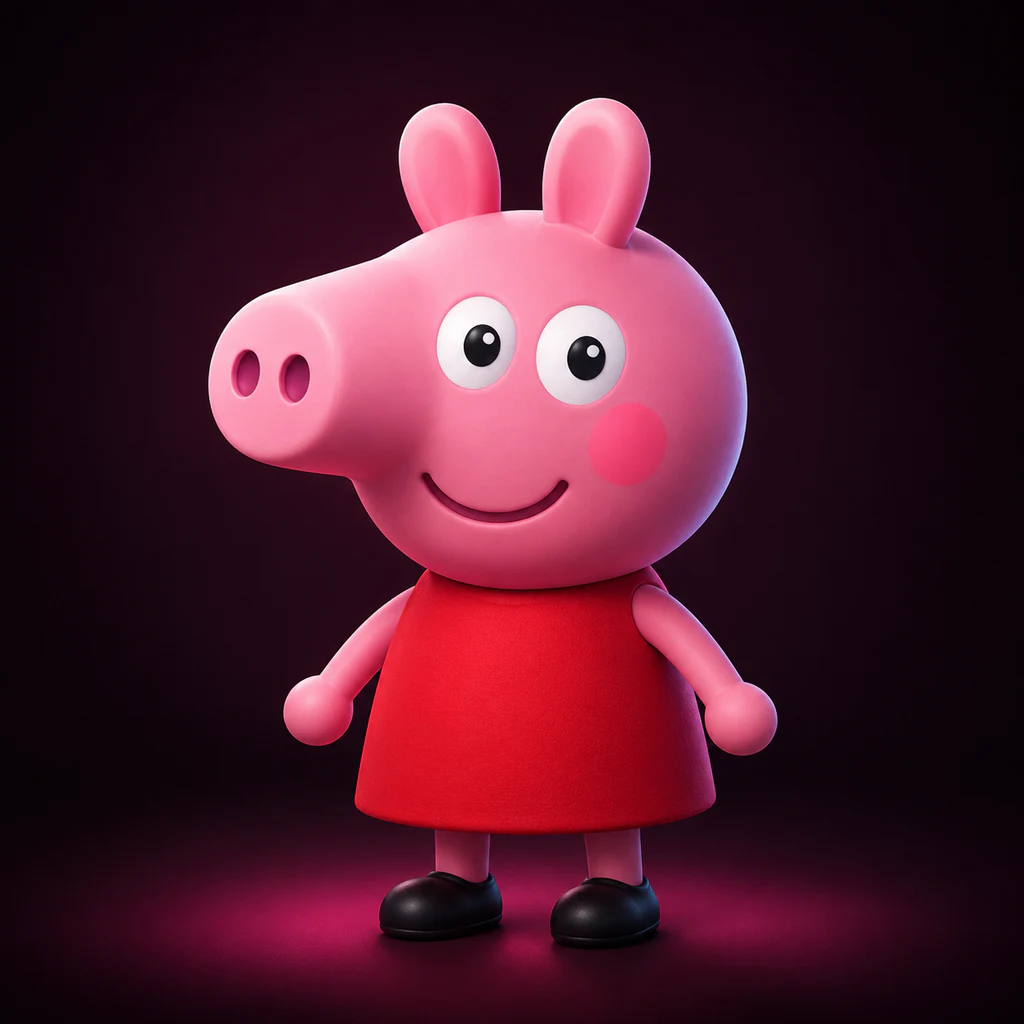
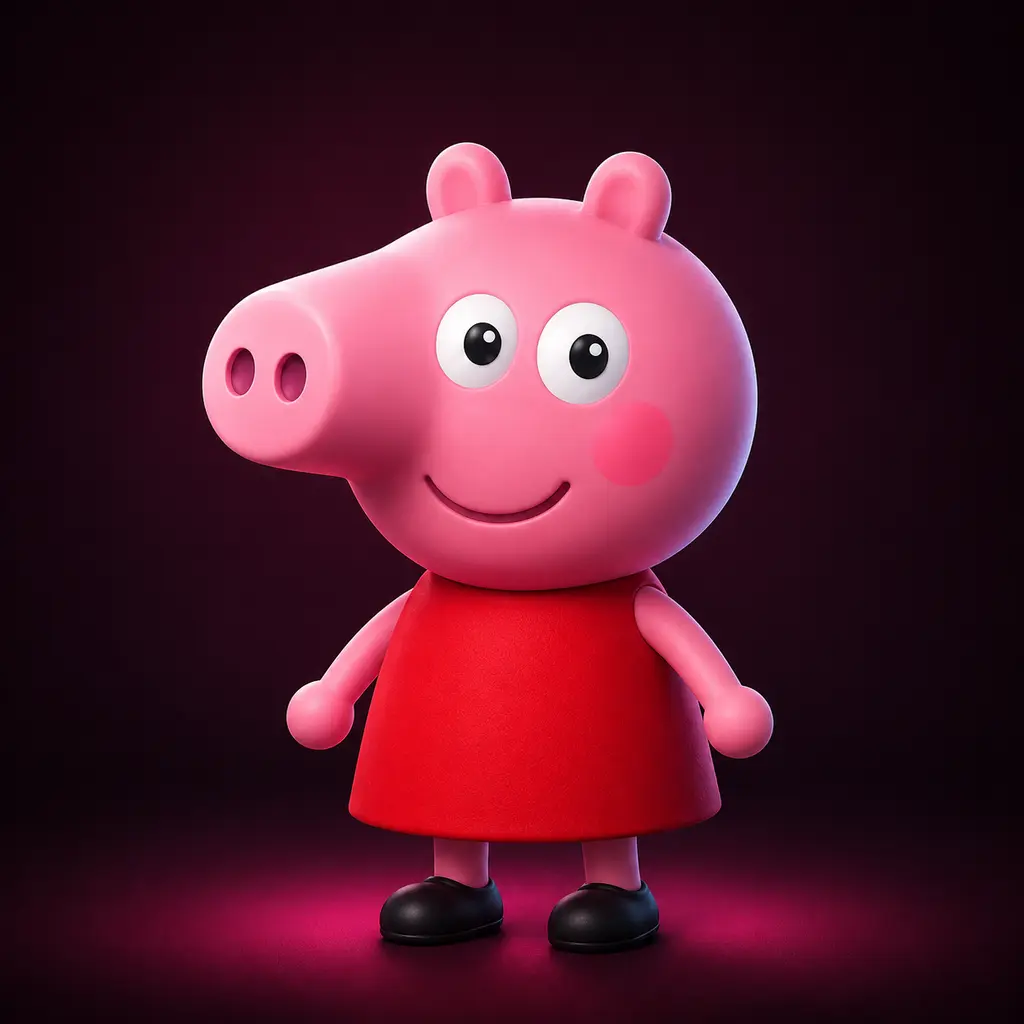
Finish full roster Loadout portraits

diff --git a/index.html b/index.html
@@ -14,7 +14,7 @@
 <!-- Which build is actually loaded. Stamped by build.js from a hash of the
      source, and shown in the pause panel, so "did my update land?" is a
      question anyone can answer on their phone in two taps. -->
-<meta name="build" content="8416cf1">
+<meta name="build" content="17227e4">
 <meta name="description" content="Bomber Fan — a 3D local-multiplayer bomber game. One human, three bots, six themed maps. Works offline.">
 <!-- Added to a phone's home screen it launches full-screen, with no browser
      chrome eating the landscape height the arena needs. -->
@@ -2034,7 +2034,7 @@
   }
 
   /* BOMBER FAN CHARACTER SELECT V6 */
-  /* One large live model, one compact sixteen-fighter roster, no prize ladder. */
+  /* One large live model, one compact twenty-fighter roster, no prize ladder. */
   #select {
     --fighter: #ff5148;
     padding: clamp(10px, 1.6vh, 18px) clamp(16px, 3vw, 44px) clamp(10px, 1.4vh, 16px) !important;
@@ -2187,8 +2187,8 @@
     width: 100%;
     max-width: none;
     background-color: #000;
-    background-image: url('assets/bombog.jpg');
-    background-size: contain;
+    background-image: url('assets/bombog-portrait.webp');
+    background-size: cover;
     background-position: center;
   }
   #spreview .preview-fallback[data-fighter="hulk"],
@@ -2204,7 +2204,12 @@
   #spreview .preview-fallback[data-fighter="joker"],
   #spreview .preview-fallback[data-fighter="blondie"],
   #spreview .preview-fallback[data-fighter="dino"],
-  #spreview .preview-fallback[data-fighter="wario"] {
+  #spreview .preview-fallback[data-fighter="wario"],
+  #spreview .preview-fallback[data-fighter="deadpool"],
+  #spreview .preview-fallback[data-fighter="buzz"],
+  #spreview .preview-fallback[data-fighter="minion"],
+  #spreview .preview-fallback[data-fighter="sonic"],
+  #spreview .preview-fallback[data-fighter="tanooki-bowser"] {
     width: 100%;
     max-width: none;
     background-size: cover;
@@ -2224,6 +2229,11 @@
   #spreview .preview-fallback[data-fighter="blondie"] { background-image: url('assets/blondie-portrait.webp'); }
   #spreview .preview-fallback[data-fighter="dino"] { background-image: url('assets/dino-portrait.webp'); }
   #spreview .preview-fallback[data-fighter="wario"] { background-image: url('assets/wario-portrait.svg'); }
+  #spreview .preview-fallback[data-fighter="deadpool"] { background-image: url('assets/deadpool-portrait.webp'); }
+  #spreview .preview-fallback[data-fighter="buzz"] { background-image: url('assets/buzz-portrait.webp'); }
+  #spreview .preview-fallback[data-fighter="minion"] { background-image: url('assets/minion-portrait.webp'); }
+  #spreview .preview-fallback[data-fighter="sonic"] { background-image: url('assets/sonic-portrait.webp'); }
+  #spreview .preview-fallback[data-fighter="tanooki-bowser"] { background-image: url('assets/tanooki-bowser-portrait.webp'); }
   @supports (width: 1cqh) {
     #spreview .preview-fallback {
       width: min(92cqw, 75cqh);
@@ -2368,11 +2378,17 @@
   #select .charpick[data-class="4"] .charface,
   #select .charpick[data-class="6"] .charface,
   #select .charpick[data-class="7"] .charface,
+  #select .charpick[data-class="8"] .charface,
   #select .charpick[data-class="9"] .charface,
   #select .charpick[data-class="10"] .charface,
   #select .charpick[data-class="11"] .charface,
+  #select .charpick[data-class="12"] .charface,
   #select .charpick[data-class="13"] .charface,
-  #select .charpick[data-class="14"] .charface {
+  #select .charpick[data-class="14"] .charface,
+  #select .charpick[data-class="16"] .charface,
+  #select .charpick[data-class="17"] .charface,
+  #select .charpick[data-class="18"] .charface,
+  #select .charpick[data-class="19"] .charface {
     background-size: cover;
     background-position: center;
   }
@@ -2384,12 +2400,18 @@
   #select .charpick[data-class="5"] .charface { background-image: url('assets/hulk-portrait.svg'); }
   #select .charpick[data-class="6"] .charface { background-image: url('assets/devil-portrait.webp'); }
   #select .charpick[data-class="7"] .charface { background-image: url('assets/maw-portrait.webp'); }
+  #select .charpick[data-class="8"] .charface { background-image: url('assets/bombog-portrait.webp'); }
   #select .charpick[data-class="9"] .charface { background-image: url('assets/plague-portrait.webp'); }
   #select .charpick[data-class="10"] .charface { background-image: url('assets/phantom-portrait.webp'); }
   #select .charpick[data-class="11"] .charface { background-image: url('assets/joker-portrait.svg'); }
+  #select .charpick[data-class="12"] .charface { background-image: url('assets/deadpool-portrait.webp'); }
   #select .charpick[data-class="13"] .charface { background-image: url('assets/blondie-portrait.webp'); }
   #select .charpick[data-class="14"] .charface { background-image: url('assets/dino-portrait.webp'); }
   #select .charpick[data-class="15"] .charface { background-image: url('assets/wario-portrait.svg'); background-size: cover; background-position: center; }
+  #select .charpick[data-class="16"] .charface { background-image: url('assets/buzz-portrait.webp'); }
+  #select .charpick[data-class="17"] .charface { background-image: url('assets/minion-portrait.webp'); }
+  #select .charpick[data-class="18"] .charface { background-image: url('assets/sonic-portrait.webp'); }
+  #select .charpick[data-class="19"] .charface { background-image: url('assets/tanooki-bowser-portrait.webp'); }
   #select .charindex {
     position: absolute;
     right: 6px;

diff --git a/refresh.html b/refresh.html
@@ -36,7 +36,7 @@
       );
     }
   } catch (_) {}
-  window.location.replace(new URL('./?build=d765d39&preview=bombog', scope).href);
+  window.location.replace(new URL('./?build=17227e4&preview=bombog', scope).href);
 })();
 </script>
 </body>
